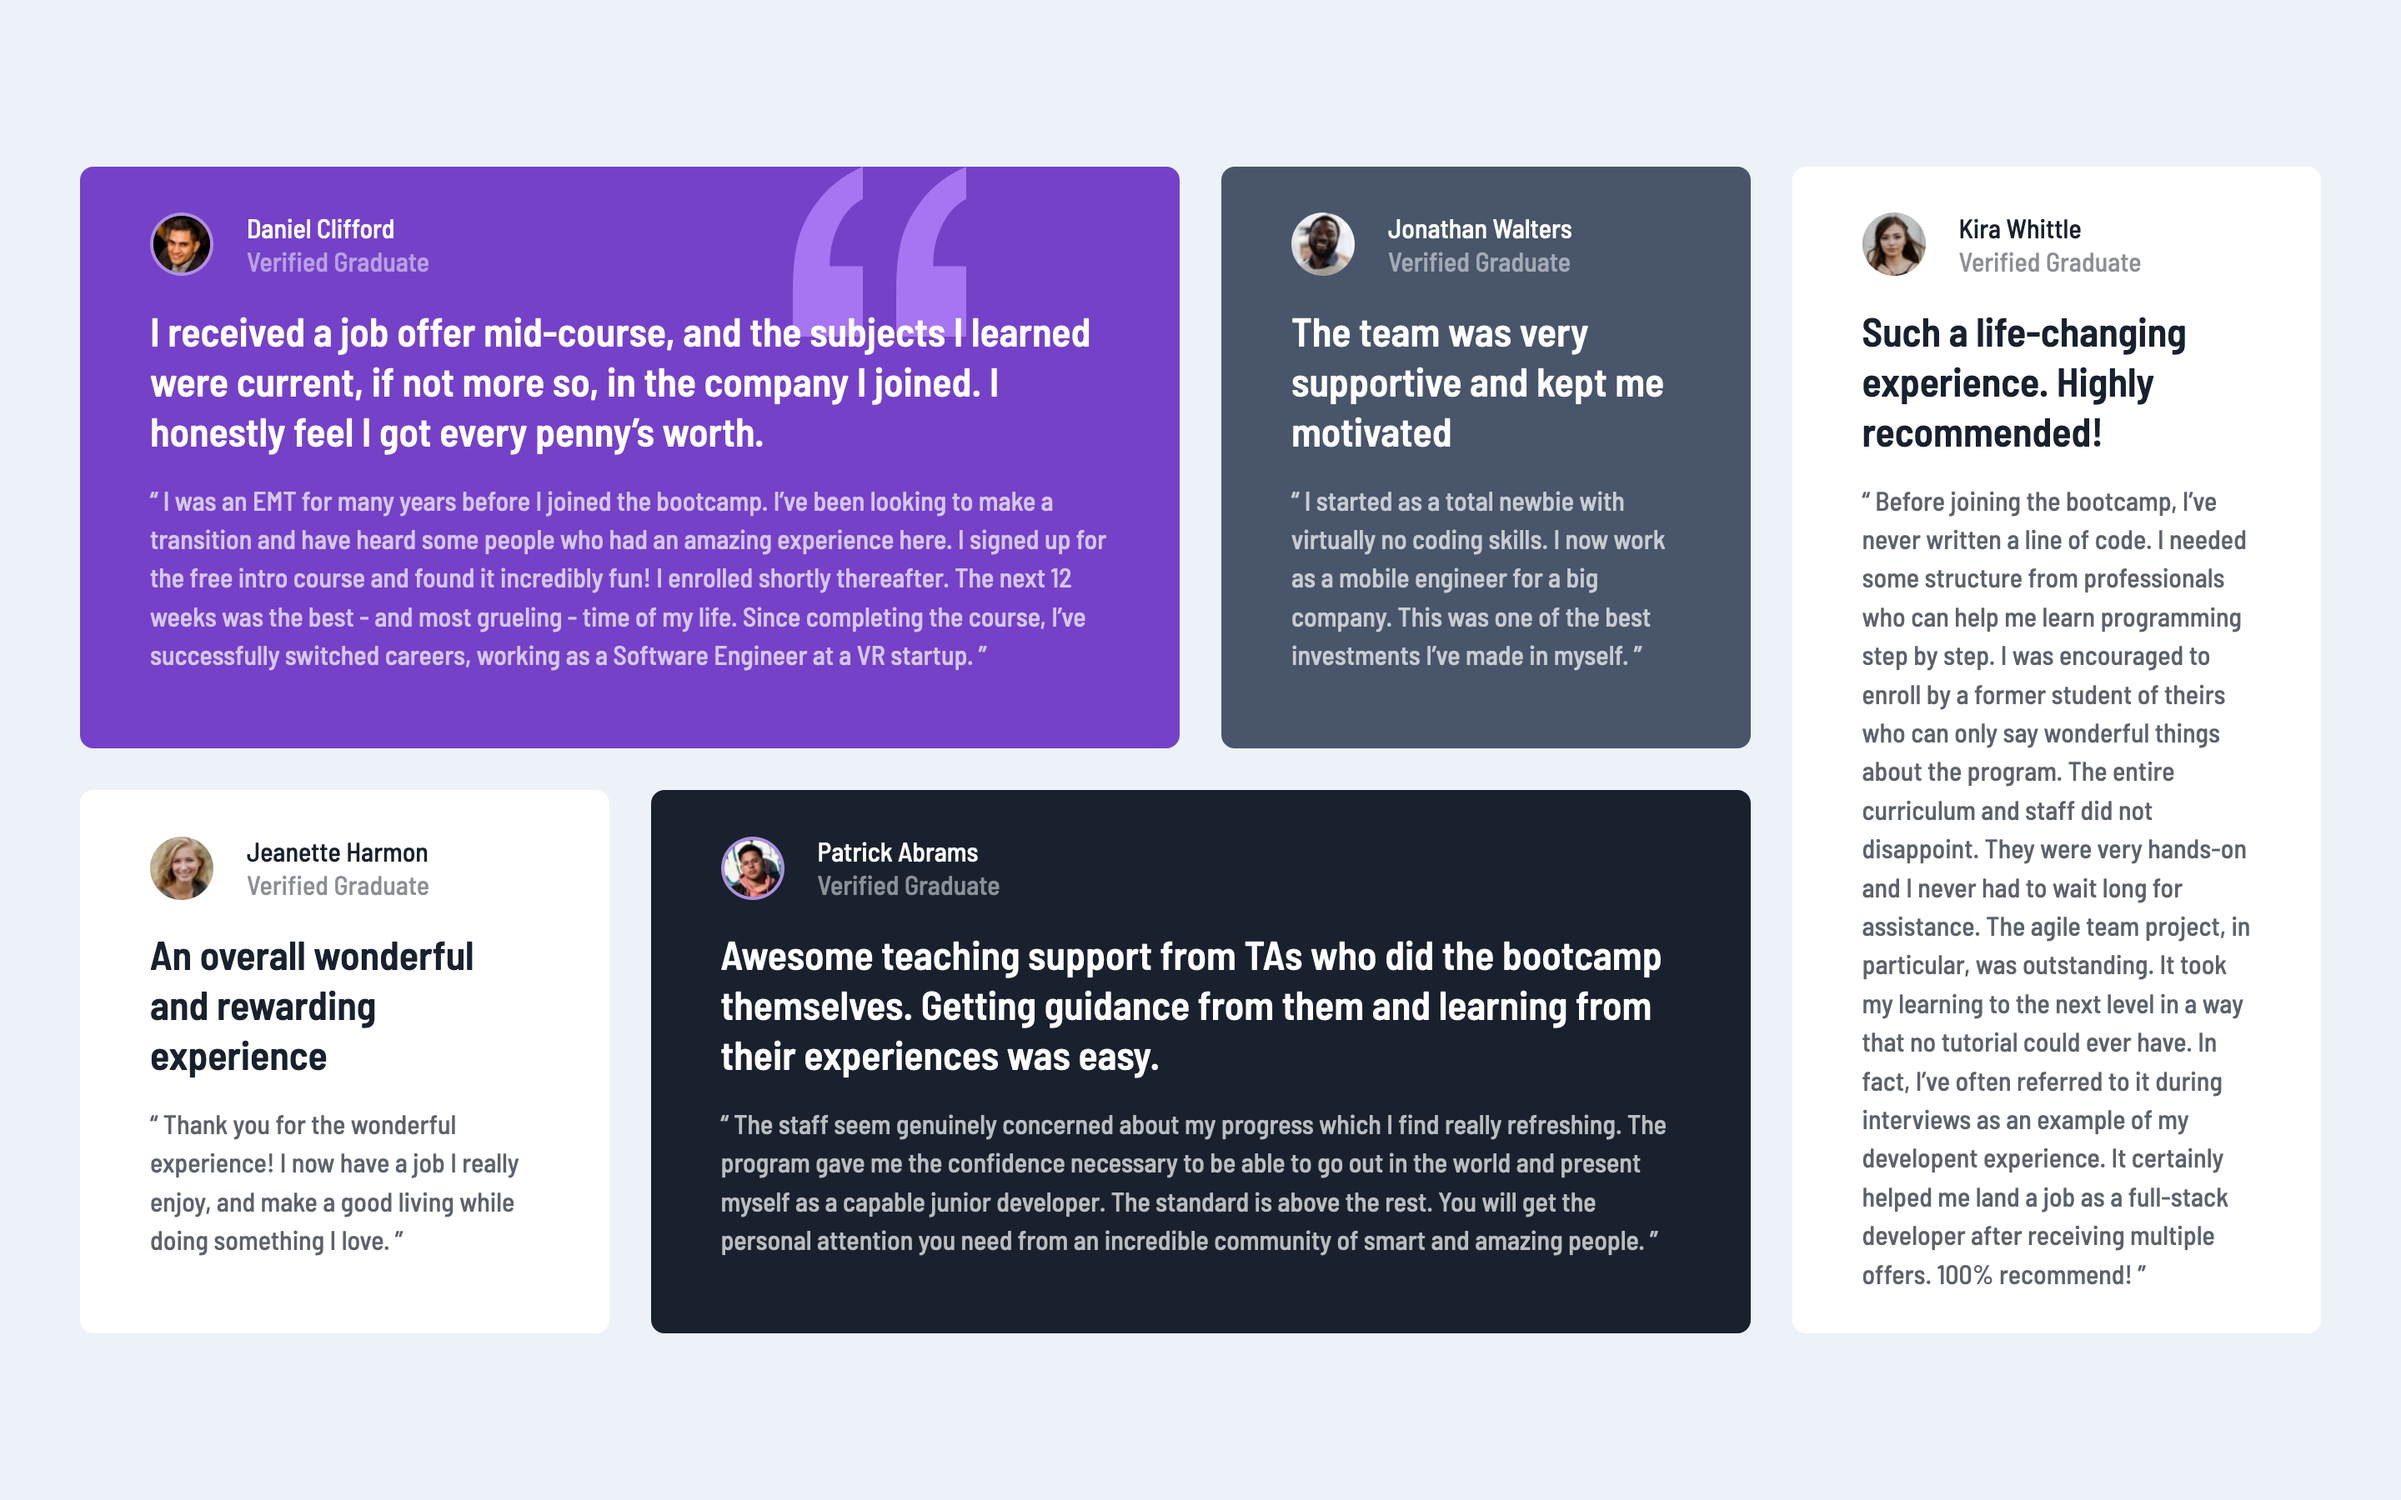
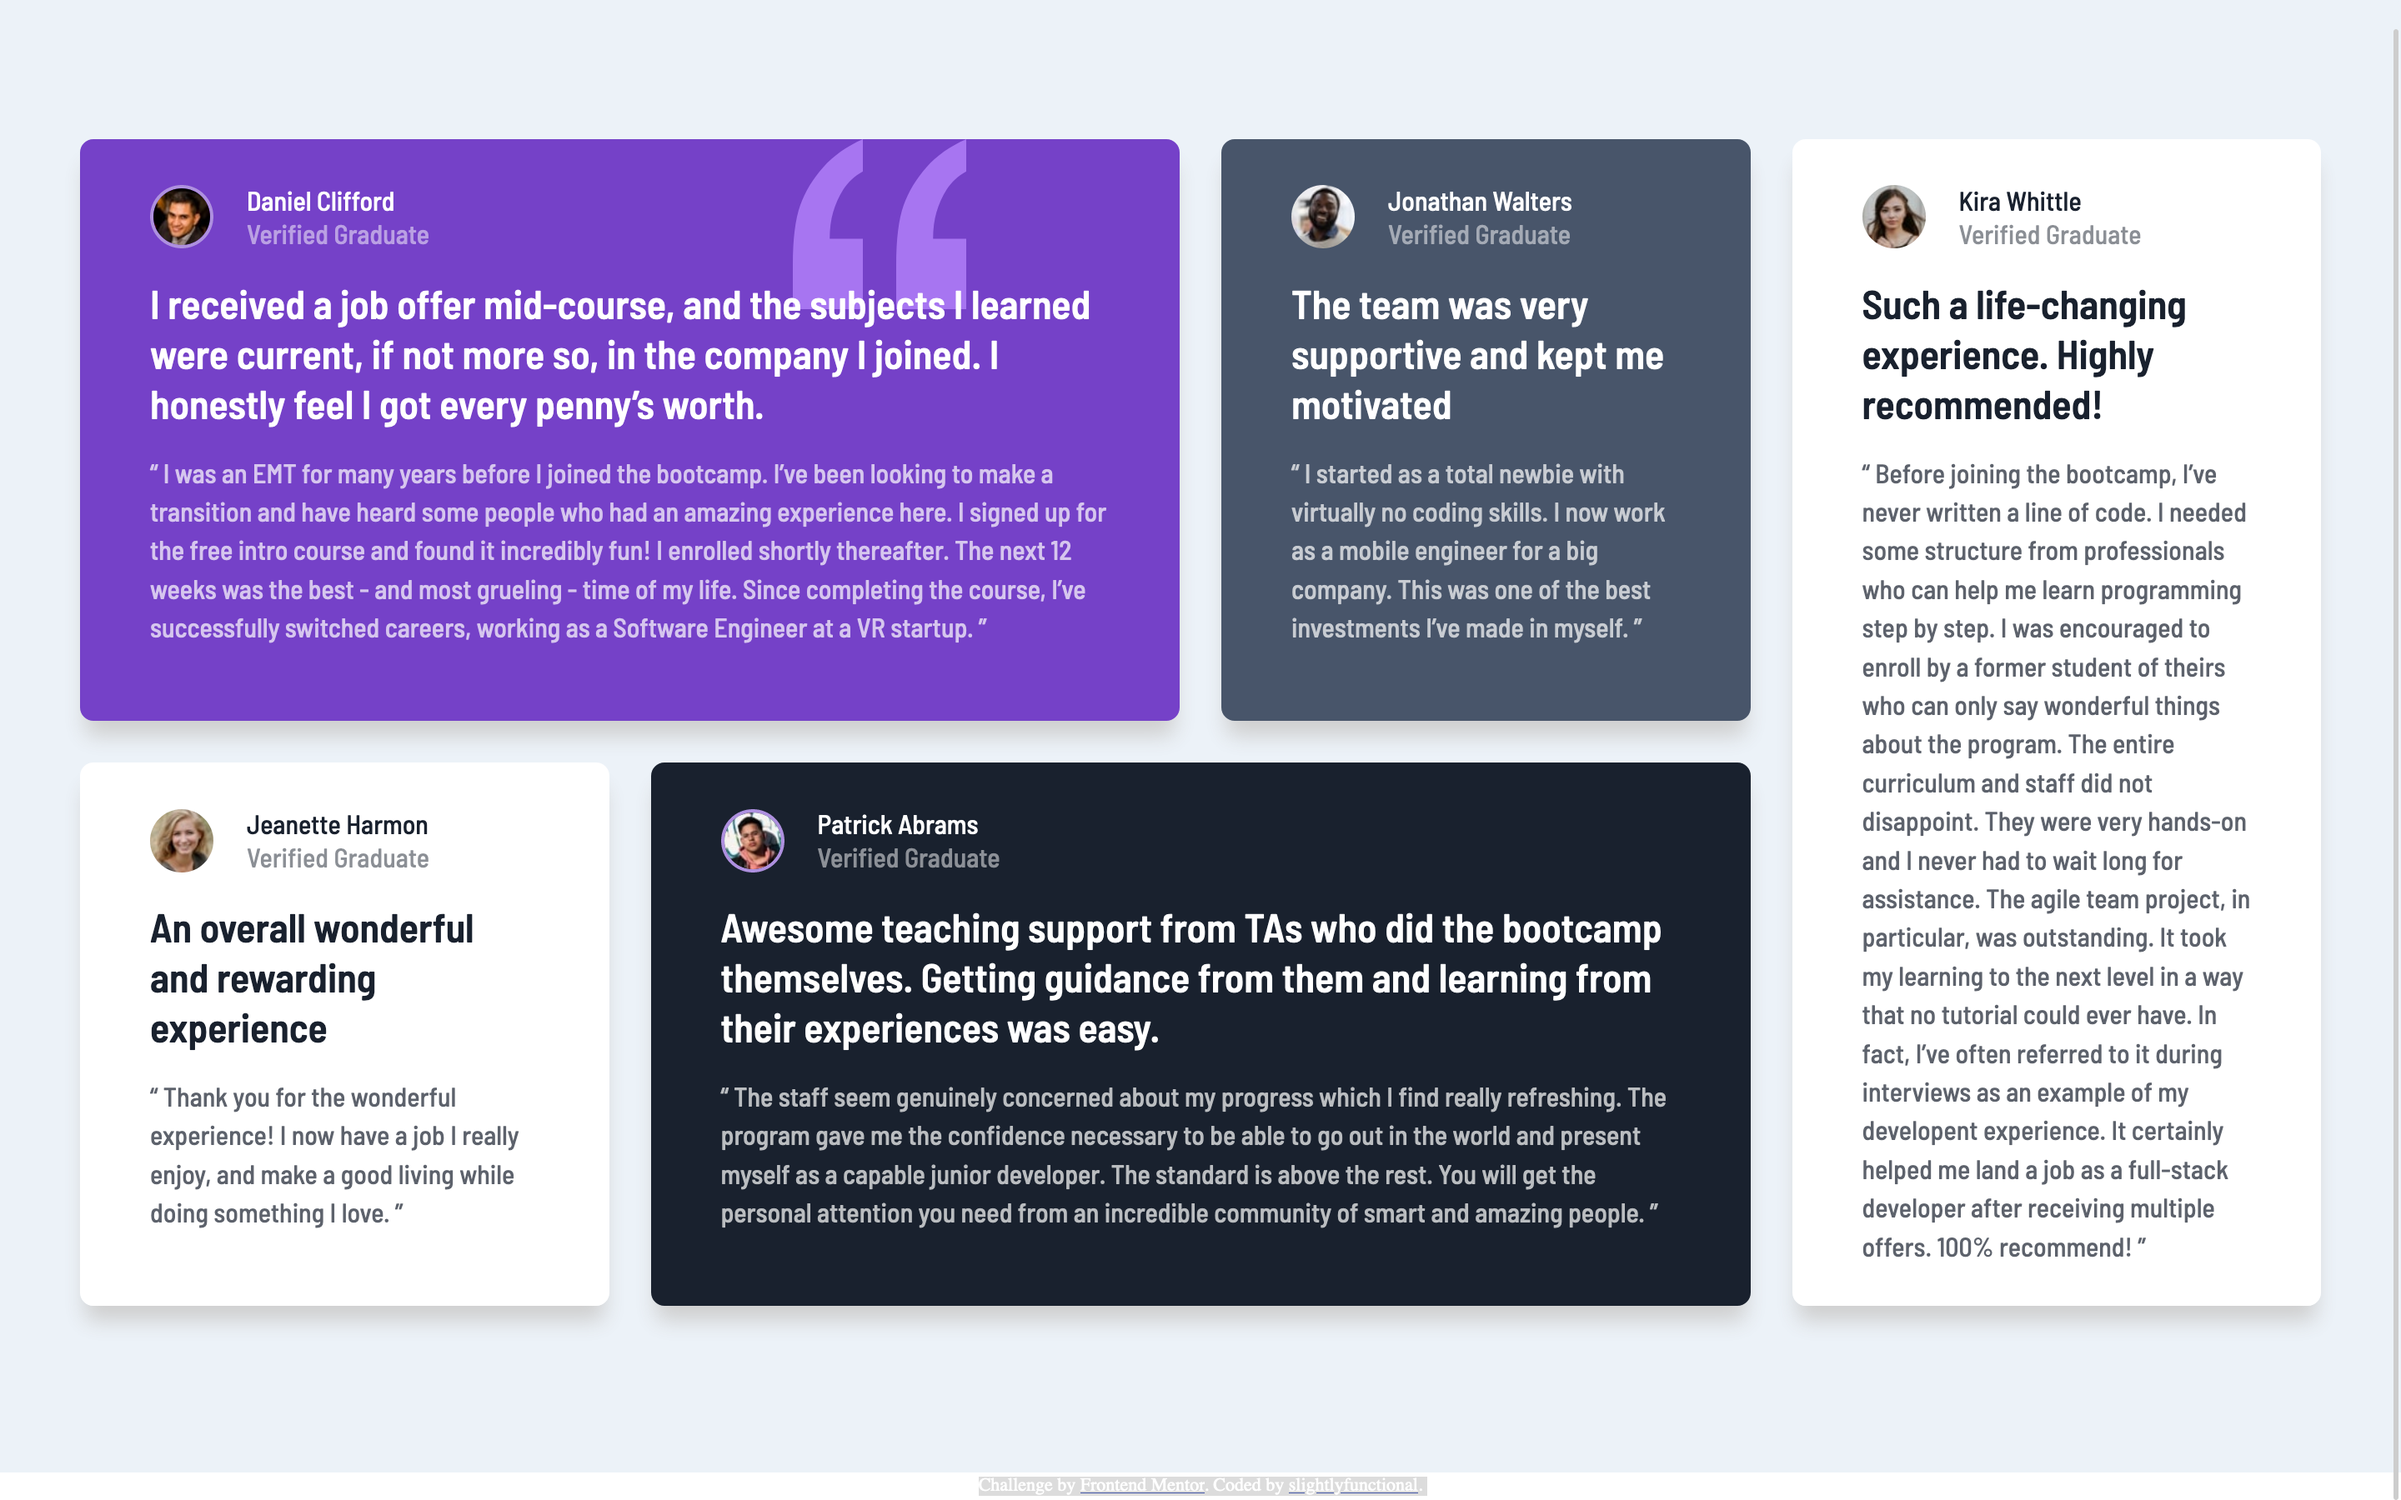
update screenshot, add back light-gray color, add box shadow

diff --git a/src/styles.sass b/src/styles.sass
@@ -4,6 +4,7 @@
   --light-moderate-violet: hsl(263, 55%, 72%)
   --very-dark-grayish-blue: hsl(217, 19%, 35%)
   --very-dark-blackish-blue: hsl(219, 29%, 14%)
+  --light-gray: hsl(0, 0%, 81%)
   --light-grayish-blue: hsl(210, 46%, 95%)
 
 .container
@@ -47,6 +48,7 @@
     padding-right: 42px
     border-radius: 8px
     max-height: 700px
+    box-shadow: 0 12px 12px -3px var(--light-gray)
 
     &--grid
       &-item-one
@@ -107,7 +109,7 @@
       &-white
         color: var(--very-dark-blackish-blue)
         background-color: var(--white)
-      
+
       &-blackish
         color: var(--white)
         background-color: var(--very-dark-blackish-blue)
@@ -118,7 +120,7 @@
     .testimonial__profile
       display: flex
       flex-direction: row
-      
+
       .profile__graduate
         margin-top: -3px
         opacity: 50%
